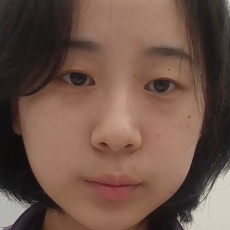
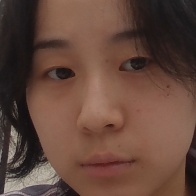
비상

diff --git a/src/renderer/controllers/GameController.js b/src/renderer/controllers/GameController.js
@@ -60,7 +60,8 @@ export class GameController {
       player2: this.players[1].getData(),
       grid: [],
       highlight: [],
-      gameOver: false
+      gameOver: false,
+      difficulty: this.difficulty
     };
 
     this.gameStarted = false;
@@ -120,8 +121,8 @@ export class GameController {
     if (this.gameStarted) return;
     this.gameStarted = true;
 
-    this.currentSize = this.initialSize;
-    this.currentWordLength = this.initialWordLength;
+    this.currentSize = 4;
+    this.currentWordLength = 4;
     this._resetRoundStates();
 
     this.board.resetBoard(this.currentSize, this.currentSize);
@@ -134,6 +135,7 @@ export class GameController {
   async restartGame({ difficulty, player1: p1Data, player2: p2Data } = {}) {
     if (difficulty !== undefined) this.currentGameDifficulty = difficulty;
     if (this.currentGameDifficulty > Difficulty.VERYHARD) this.currentGameDifficulty = Difficulty.VERYHARD;
+    console.log("restartGame is called");
 
     // 기존 플레이어 상태 복원
     if (p1Data) {

diff --git a/src/renderer/hooks/useGameController.js b/src/renderer/hooks/useGameController.js
@@ -36,10 +36,32 @@ export function GameControllerProvider({ children }) {
   return <Ctx.Provider value={value}>{children}</Ctx.Provider>;
 }
 
+// export function useGameController() {
+//   const ctx = useContext(Ctx);
+//   if (!ctx) {
+//     throw new Error("useGameController must be used inside GameControllerProvider");
+//   }
+//   return {
+//     ctx, // { controller, state }
+//     startNewGame: () => controller.startInitialGame(),
+//   }
+// }
+
 export function useGameController() {
   const ctx = useContext(Ctx);
+  
+  // ctx가 없으면 오류 발생
   if (!ctx) {
     throw new Error("useGameController must be used inside GameControllerProvider");
   }
-  return ctx; // { controller, state }
+  
+  // ctx에서 controller를 직접 사용
+  const { controller, state } = ctx;
+  
+  return {
+    controller,  // controller 접근 가능
+    state,       // state 접근 가능
+    startNewGame: () => controller.startInitialGame(),  // controller 메서드 사용
+  }
 }
+

diff --git a/src/renderer/views/PlayerConfigurationView.jsx b/src/renderer/views/PlayerConfigurationView.jsx
@@ -19,6 +19,13 @@ export default function PlayerConfigurationView() {
   const { state, controller } = useGameController();
   const { player1, player2 } = state || {};
 
+  let difficulty = state?.difficulty ?? 0;  // `state.difficulty` 값이 전달되지 않으면 기본값 0을 사용
+
+  useEffect(() => {
+    difficulty = 0;
+    console.log("Received difficulty:", difficulty);
+  }, [difficulty]);
+
   // 새로고침 시 초기화 (컴포넌트가 처음 렌더링될 때마다)
   useEffect(() => {
     setNameP1("");
@@ -133,7 +140,15 @@ export default function PlayerConfigurationView() {
 
   const handleStartGame = () => {
     SoundManager.play("clickGameStart");
-    navigate("/game");
+    navigate("/game", {
+      state: {
+        ...state,
+        difficulty:0,
+      },
+      replace: false,
+      key: Date.now()
+     
+    });
   };
 
   return (

diff --git a/src/renderer/views/StartView.jsx b/src/renderer/views/StartView.jsx
@@ -7,6 +7,8 @@ export default function StartView() {
   const navigate = useNavigate();
   const location = useLocation();
   const { state } = location;
+   
+  const { startNewGame } = useGameController();
   
   // const { startNewGame } = useGameController();
     
@@ -18,6 +20,9 @@ export default function StartView() {
   const handleStart = () => {
     //startNewGame();        // 새 GameController 생성
     SoundManager.play("clickPop");   // 효과음 재생
+
+    startNewGame(); // 이 부분에서 새 게임을 시작하는 메서드 호출
+
     navigate("/config", {   // 설정 화면으로 이동
       state: state,  // 받은 state 그대로 전달
       replace: false, 

diff --git a/src/renderer/views/ResultView.jsx b/src/renderer/views/ResultView.jsx
@@ -95,6 +95,7 @@ const handleNewGame = () => {
 
     navigate("/start", {
         state: {
+            ...state,
             difficulty: 0,
             player1: initialPlayer1,
             player2: initialPlayer2,
